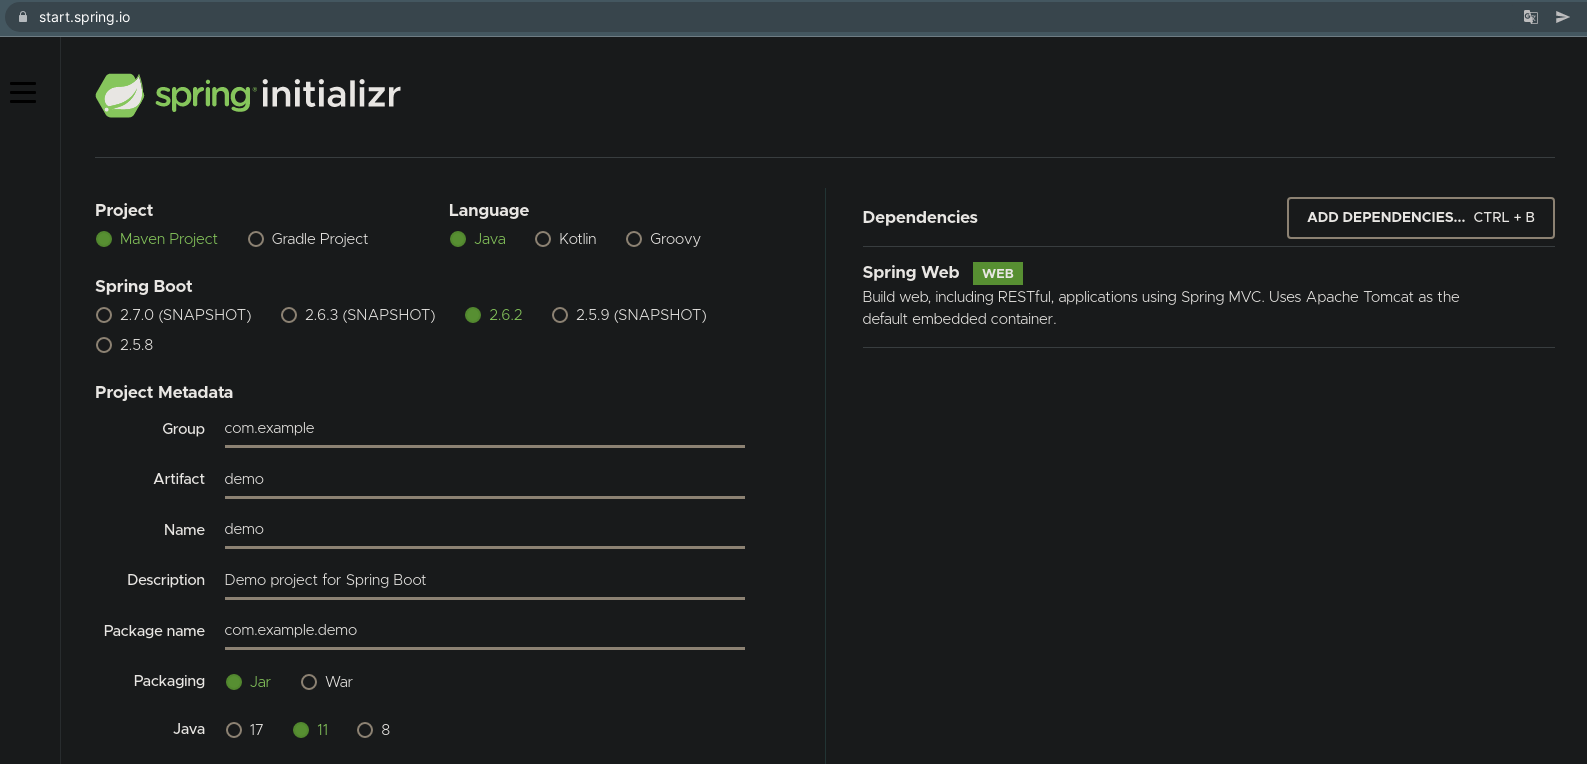
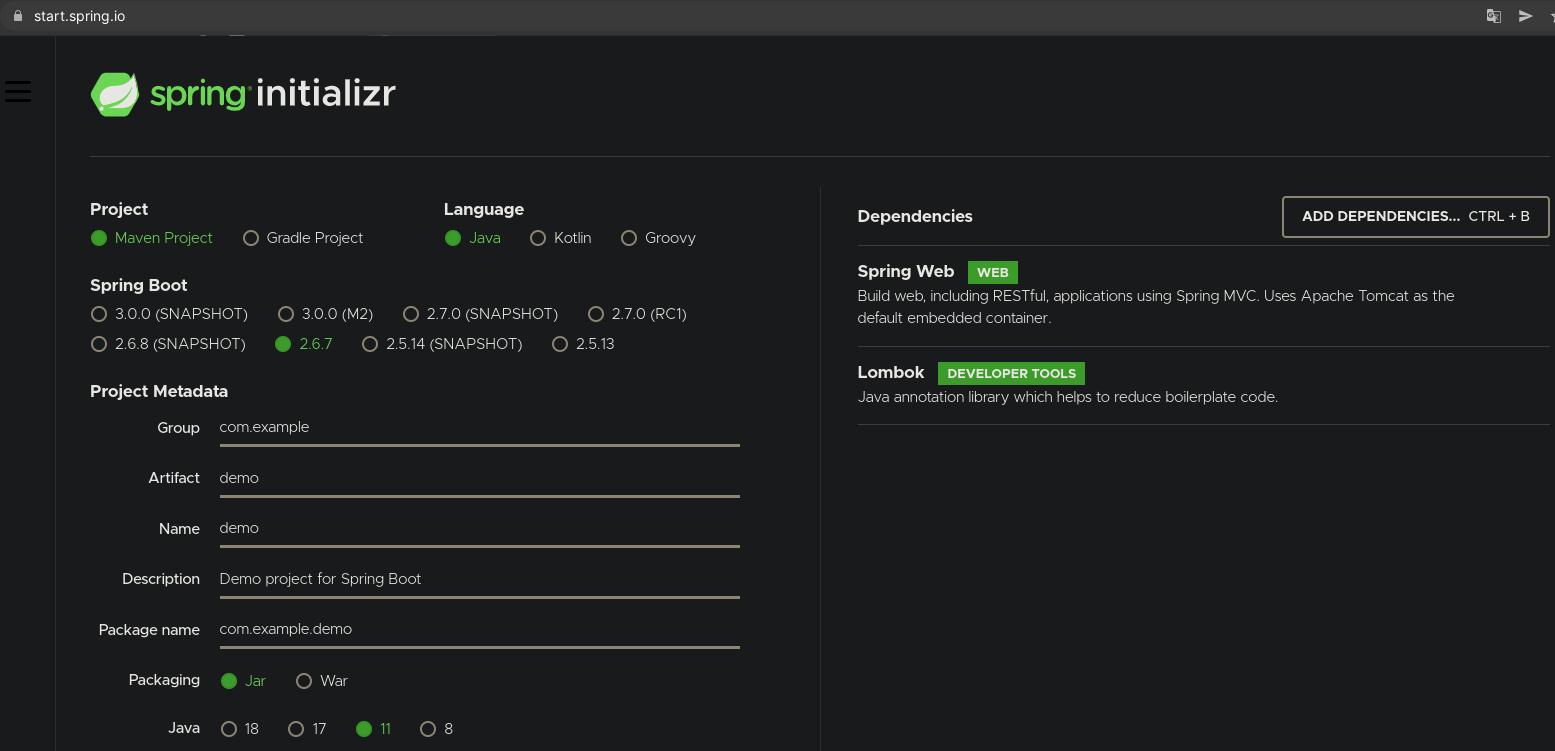
Adaptación sesión 7

diff --git a/Sesion-07/Postwork/Readme.md b/Sesion-07/Postwork/Readme.md
@@ -13,9 +13,11 @@
 
 ## 🚀 Desarrollo
 
-Completa las siguientes instrucciones para completar el séptimo postwork:
+**Realizar en equipo**
 
-1. Clona el proyecto del Reto 03: 
+Completen las siguientes instrucciones para completar el séptimo postwork:
+
+1. Clonen el proyecto del [Reto 03](../Reto-03/): 
 
 2. En el archivo **pom** cambiar la siguiente dependencia:
 
@@ -42,21 +44,42 @@ Completa las siguientes instrucciones para completar el séptimo postwork:
 4. Modificamos la clase EmpleadoRepository pasarla a ser una interfaz:
 
     ```java
+    package com.example.demo.repository;
+
+    import com.example.demo.entity.Empleado;
+    import org.springframework.data.mongodb.repository.ReactiveMongoRepository;
+    import org.springframework.stereotype.Repository;
+
+    @Repository
     public interface EmpleadoRepository extends ReactiveMongoRepository<Empleado, String>{
+
     }
     ```
 
-5. Agregamos el uri de conexión en el archivo **application.properties** lo encontrarás dentro de **resources**.
+5. Ahora generamos el uri de conexión desde MongoAtlas.
+
+    - Damos clic en *Connect*
+    ![Paso 1](./img/img_06.png)
+
+    - Después *Connect your application*
+    ![Paso 2](./img/img_07.png)
+
+    - Luego seleccionamos driver Java y versión 4.3
+    ![Paso 3](./img/img_08.png)
+
+    - Por último damos clic en el botón de *Copiar*
+
+6. Agregamos el uri de conexión en el archivo **application.properties** lo encontrarás dentro de **resources**.
 
     ```properties
     spring.data.mongodb.uri=mongodb+srv://<user>:<password>@cluster0.ijbvb.mongodb.net/empleado?retryWrites=true&w=majority
     ```
 
-6. Modifica el controlador con los métodos que nos devuelve la interfaz.
+7. Modifica el controlador con los métodos que nos devuelve la interfaz.
 
     ![Metodos](img/img_01.png)
 
-7. Por último ejecuta los tres servicios creados, notarás que ahora los datos se almacenan en MongoDB Atlas.
+8. Por último ejecuta los tres servicios creados, notarás que ahora los datos se almacenan en MongoDB Atlas.
 
     - Crear empleado
 
@@ -78,7 +101,7 @@ Completa las siguientes instrucciones para completar el séptimo postwork:
 
 ## ✅ Checklist 
 
-Asegúrate que tu postwork contenga todo lo siguiente, ya que esto se evaluará al término del módulo.
+Asegúrate que el postwork contenga todo lo siguiente, ya que esto se evaluará al término del módulo.
 
 - [ ] El proyecto no muestra warnings ni errores durante su ejecución.
 

diff --git a/Sesion-07/Ejemplo-02/Readme.md b/Sesion-07/Ejemplo-02/Readme.md
@@ -10,11 +10,17 @@
 
 ## Procedimiento
 
-1. Crea el proyecto con la dependencia de spring web y lombok dentro de **pom.xml**
+1. Crea el proyecto con la dependencia de **Spring web** y **lombok** dentro de **pom.xml**, utilizando [Spring.io](https://start.spring.io/)
 
     ![Postman](img/img_01.png)
 
-2. Crear un paquete llamado "entity" el cual contenga la clase "Auto" con el siguiente codigo:
+2. Da clic en Generate para descargar el archivo zip.
+
+    ![Postman](img/img_04.png)
+
+3. Descomprime el proyecto y abre el proyecto con tu IDE preferido.
+
+4. Crea un paquete llamado "entity" el cual contenga la clase "Auto" con el siguiente codigo:
 
     ```java
     package com.example.demo.entity;
@@ -30,17 +36,7 @@
     }
     ```
 
-    Agrega la dependencia de **lombok**
-
-    ```xml
-    <dependency>
-        <groupId>org.projectlombok</groupId>
-        <artifactId>lombok</artifactId>
-        <version>1.18.22</version>
-    </dependency>
-    ```
-
-3. Crear un paquete llamado "controller" el cual contenga la clase "DemoController" con el siguiente codigo:
+5. Crear un paquete llamado "controller" el cual contenga la clase "DemoController" con el siguiente codigo:
 
     ```java
     package com.example.demo.controller;
@@ -64,12 +60,12 @@
     }
     ```
 
-4. Una vez terminado lo ejecutamos, abrimos postman y colocamos la informacion como se ve en la imagen:
+6. Una vez terminado lo ejecutamos, abrimos postman y colocamos la informacion como se ve en la imagen:
 
     ![Postman](img/img_02.png)
 
 
-5. Damos click en Send y se mostrará en consola la informacion que enviamos.
+7. Damos click en Send y se mostrará en consola la informacion que enviamos.
 
     ![Terminal](img/img_03.png)
 

diff --git a/Sesion-07/Ejemplo-03/Readme.md b/Sesion-07/Ejemplo-03/Readme.md
@@ -13,13 +13,17 @@
 
 ## Procedimiento
 
-1. Crea el proyecto demo con la dependencia de spring reactive web
+1. Crea el proyecto con la dependencia de **Spring reactive web** y **lombok** dentro de **pom.xml**, utilizando [Spring.io](https://start.spring.io/)
 
     ![Postman](img/img_01.png)
 
-2. Descomprimir el proyecto
+2. Da clic en Generate para descargar el archivo zip.
 
-3. Abrir el proyecto con su IDE preferido y crear un paquete llamado "entity" el cual contenga la clase "Empleado" con el siguiente codigo:
+    ![Postman](img/img_04.png)
+
+3. Descomprime el proyecto y abre el proyecto con tu IDE preferido.
+
+4. Crea un paquete llamado "entity" el cual contenga la clase "Empleado" con el siguiente codigo:
 
     ```java
     import lombok.AllArgsConstructor;
@@ -36,17 +40,7 @@
     }
     ```
 
-    Agrega la dependencia de **lombok**
-
-    ```xml
-    <dependency>
-        <groupId>org.projectlombok</groupId>
-        <artifactId>lombok</artifactId>
-        <version>1.18.22</version>
-    </dependency>
-    ```
-
-4. Crear un paquete llamado "repository" el cual contenga la clase "EmpleadoRepository" con el siguiente codigo:
+5. Crear un paquete llamado "repository" el cual contenga la clase "EmpleadoRepository" con el siguiente codigo:
     
     ```java
     import com.example.demo.entity.Empleado;
@@ -94,7 +88,7 @@
     }
     ```
 
-5. Crear un paquete llamado "controller" el cual contenga la clase "DemoController" con el siguiente codigo:
+6. Crear un paquete llamado "controller" el cual contenga la clase "DemoController" con el siguiente codigo:
 
     ```java
     import com.example.demo.entity.Empleado;

diff --git a/Sesion-07/Reto-01/Readme.md b/Sesion-07/Reto-01/Readme.md
@@ -14,9 +14,11 @@ En el Ejercicio 1 partimos de un proyecto el cual imprime "Hola mundo"
 
 ![hola mundo](./img/img_01.png)
 
-En esta ocasión debemos colocar una nueva ruta "/data/nuevo" en el proyecto por lo que hay que modificar la clase controller.
+En esta ocasión debemos colocar una nueva ruta "/data/nuevo" en el proyecto por lo que hay que crear un nuevo controlador, similar a `HelloController`.
 
-Y este nuevo metodo llamado "nuevo" y que mande a imprimir al navegador "Mi nuevo mensaje!".
+![hola mundo](./img/img_05.png)
+
+Este nuevo metodo llamado "nuevo" debe imprimir en el navegador "Mi nuevo mensaje!".
 
 <br/>
 
@@ -26,7 +28,7 @@ Y este nuevo metodo llamado "nuevo" y que mande a imprimir al navegador "Mi nuev
 1. Crea la clase NuevoController
 
     <img src="img/img_02.png" alt="Nueva clase"/>
-  
+
 2. Dentro de la nueva clase agrega el siguiente código:
     
     <img src="img/img_03.png" alt="Código"/>
@@ -54,7 +56,7 @@ Y este nuevo metodo llamado "nuevo" y que mande a imprimir al navegador "Mi nuev
 
 4. Vuelve a ejecutar la prueba
 
-    Consulya la url **localhost:9080/data/nuevo**
+    Consulta la url **localhost:9080/data/nuevo**
 
     <img src="./img/img_04.png" alt="Resultado"/>
 

diff --git a/Sesion-07/Reto-02/Readme.md b/Sesion-07/Reto-02/Readme.md
@@ -35,13 +35,16 @@ En nuestro DemoController crear el metodo con la ruta "/casa" en el proyecto y q
     <img src="img/img_01.png" alt="Nueva clase"/>
 
     ```java
+   package com.example.demo.entity;
+
+    import lombok.Data;
+
     @Data
     public class Casa {
 
         private int id;
         private String color;
         private int pisos;
-
     }
     ```
   
